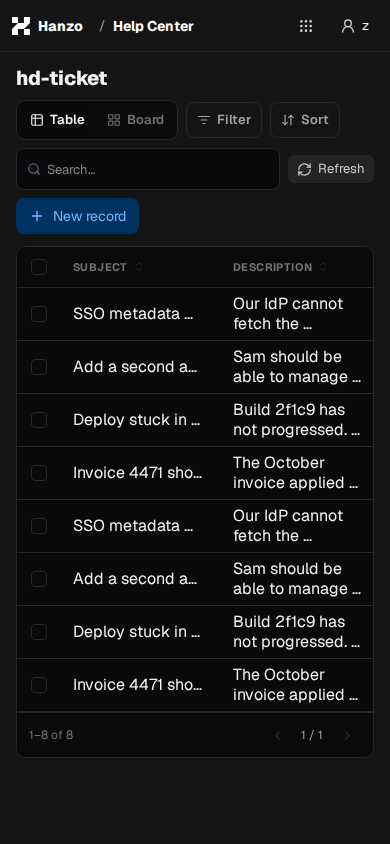
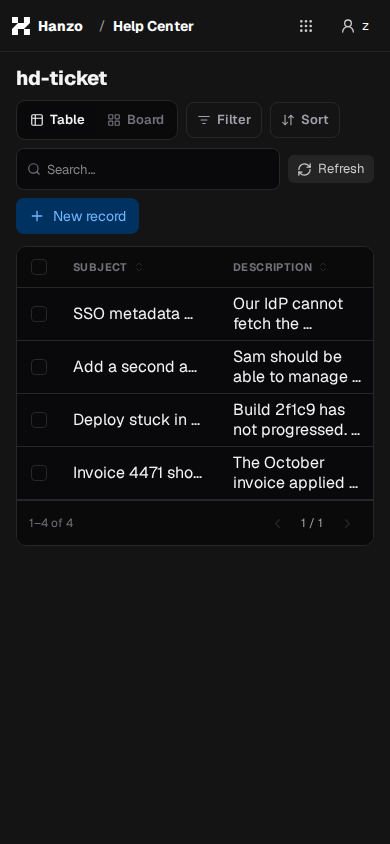
test: assert a real Help Center row, so a screenshot cannot catch the loader
hd-ticket carries three Link fields, so its pickers resolve before the table
paints — asserting only the collection name let the shot land mid-load. Every
host now names a record that must be on screen, which is the difference between
photographing the app and photographing a spinner.

diff --git a/e2e/shots.spec.ts b/e2e/shots.spec.ts
@@ -19,12 +19,12 @@ const VIEWPORTS = [
   { tag: 'desktop', width: 1440, height: 900 },
 ] as const
 
-/** Each host, and a collection that must be on screen once it renders for real. */
+/** Each host, a collection it owns, and a REAL record that must be on screen. */
 const HOSTS = [
   { site: 'erp', collection: 'erp-item', record: 'AX-100' },
   { site: 'crm', collection: 'crm-deal', record: 'Northwind — fleet telemetry' },
   { site: 'cms', collection: 'Page', record: 'platform' },
-  { site: 'help', collection: 'hd-ticket', record: null },
+  { site: 'help', collection: 'hd-ticket', record: 'Invoice 4471 shows the wrong tax rate' },
 ] as const
 
 const url = (site: string, path = '') => `http://${site}.localhost:${PORT}${path}`
@@ -69,7 +69,9 @@ for (const vp of VIEWPORTS) {
       // 2. one collection's records
       await page.goto(url(site, `/${encodeURIComponent(collection)}`), { waitUntil: 'domcontentloaded' })
       await expect(page.getByText(collection, { exact: false }).first()).toBeVisible({ timeout: 30_000 })
-      if (record) await expect(page.getByText(record, { exact: false }).first()).toBeVisible({ timeout: 30_000 })
+      // Waiting for a REAL row is what stops a screenshot from catching the
+      // loading state — a collection with Link fields resolves its pickers first.
+      await expect(page.getByText(record, { exact: false }).first()).toBeVisible({ timeout: 30_000 })
       if (vp.tag === 'mobile') await noHorizontalScroll(page)
       await page.screenshot({ path: `shots/${site}-records-${vp.tag}.png`, fullPage: false })
     })
